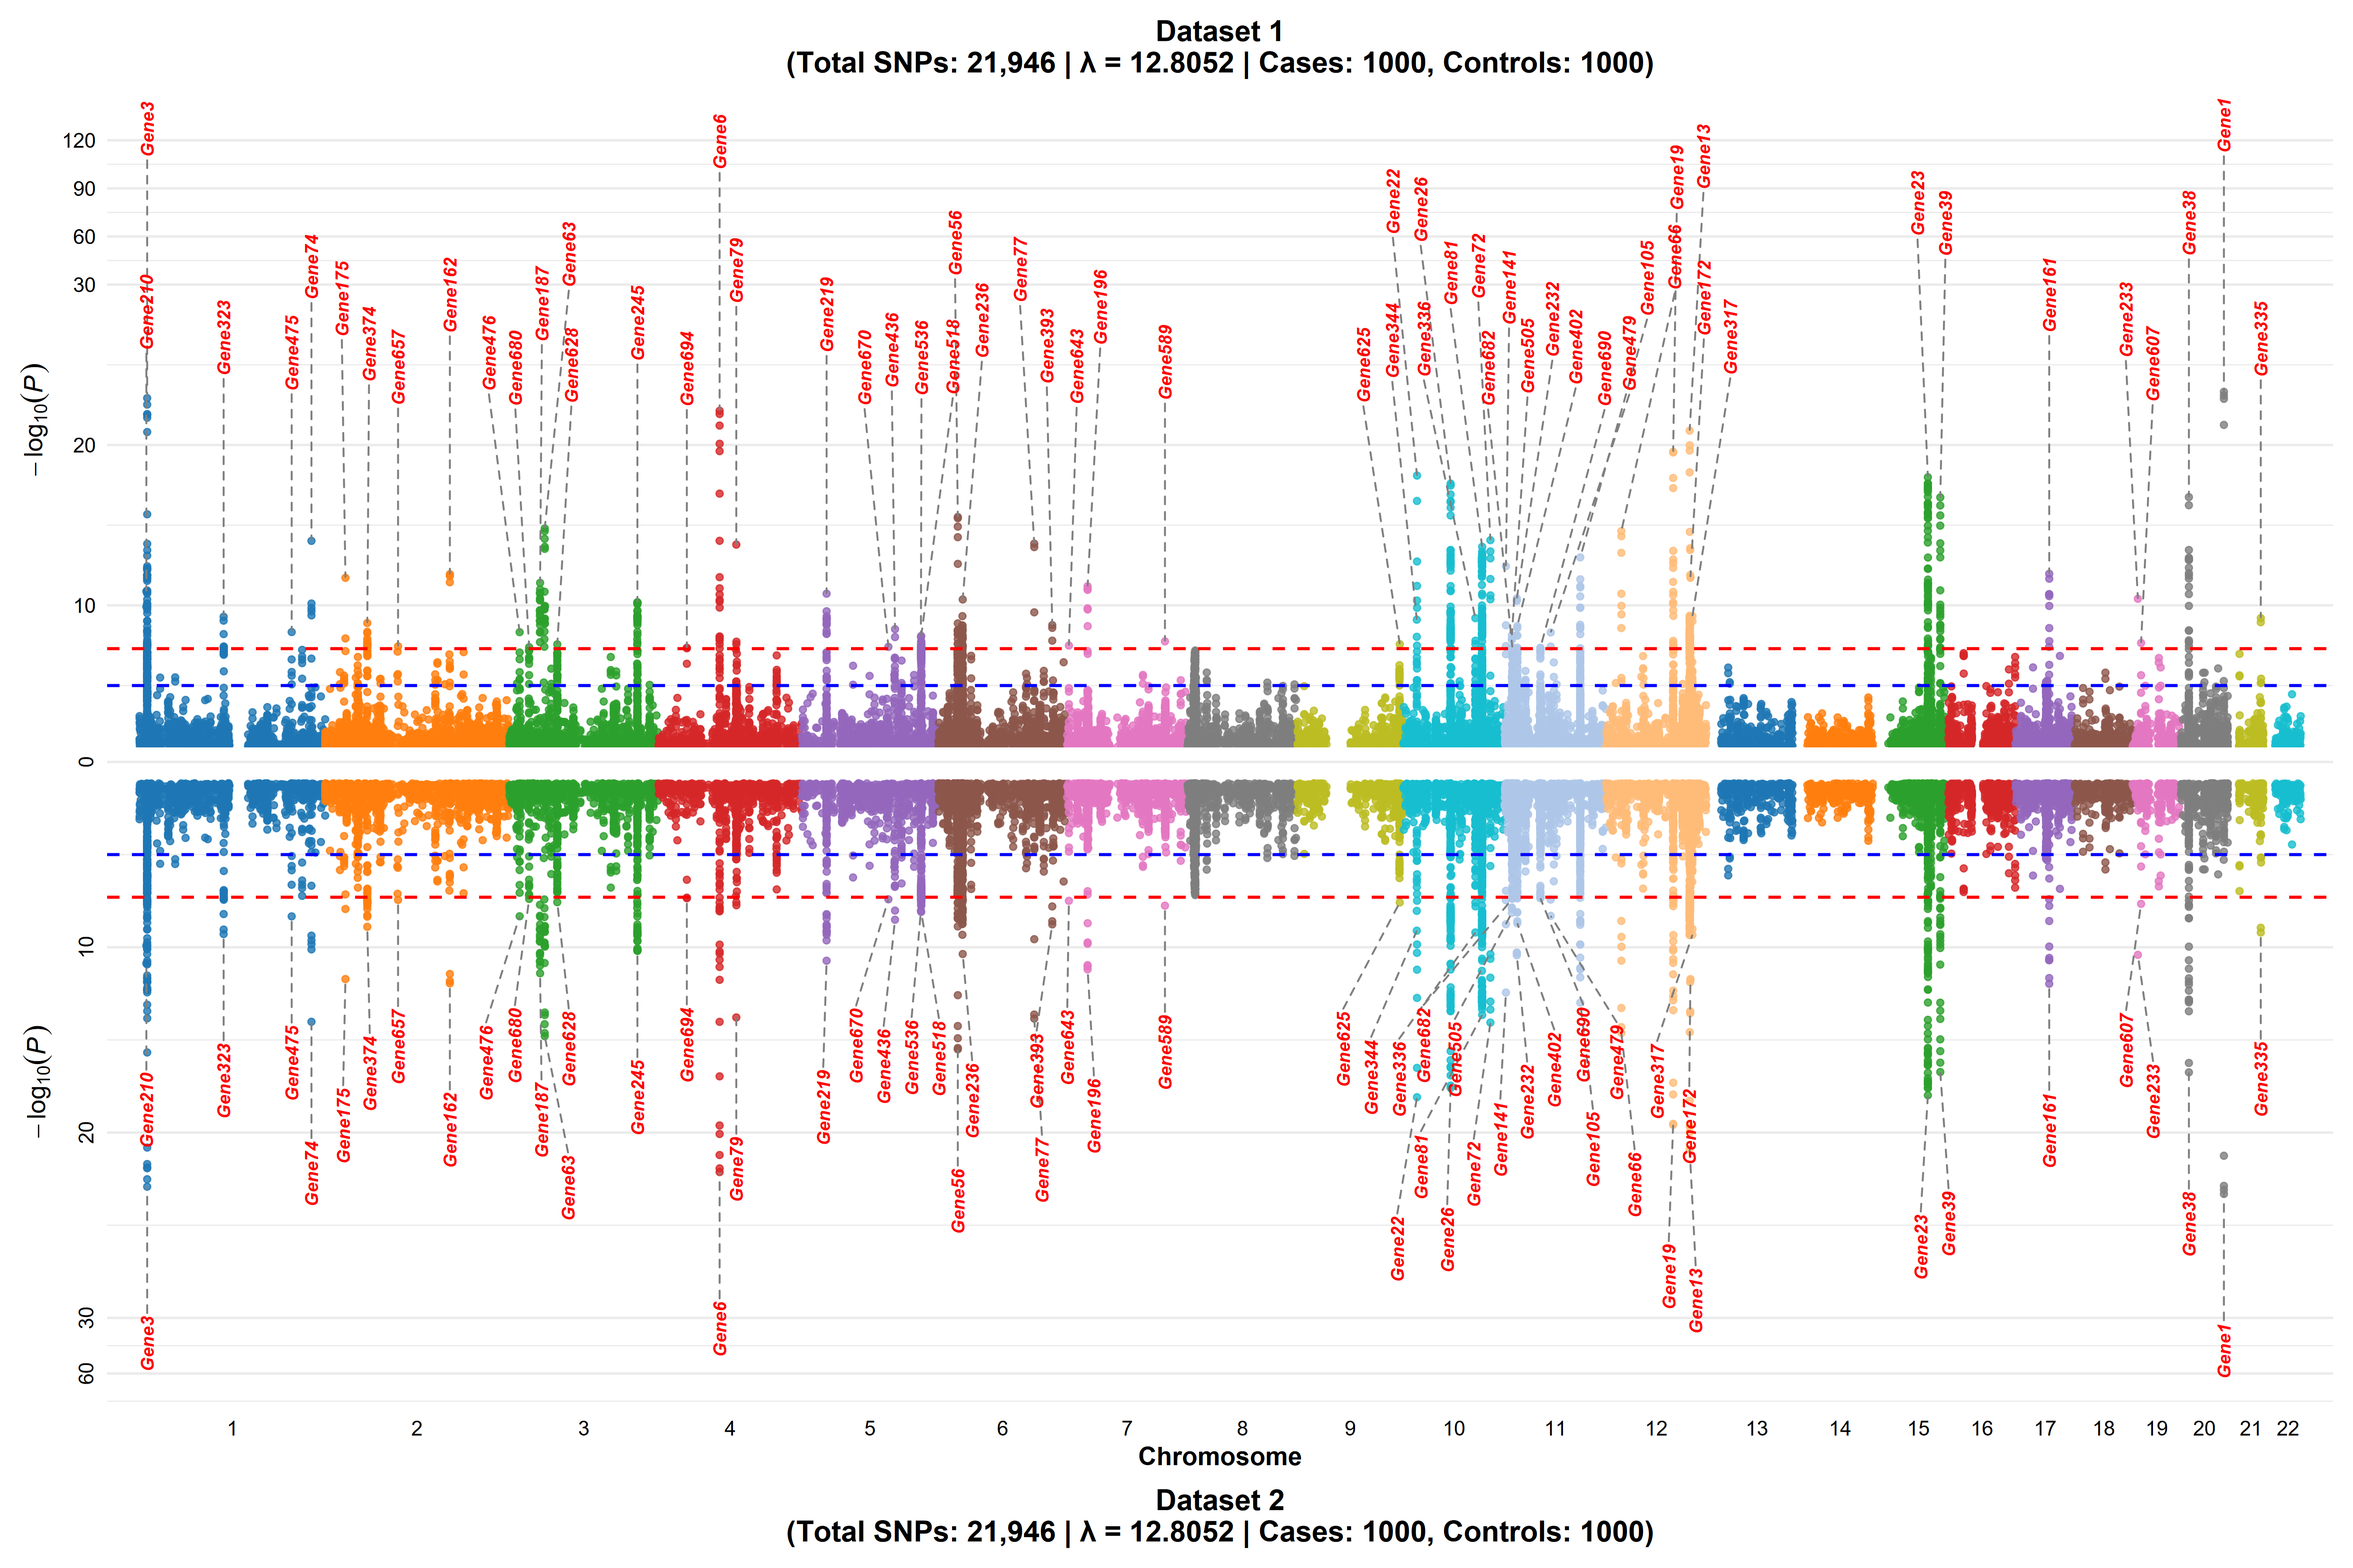
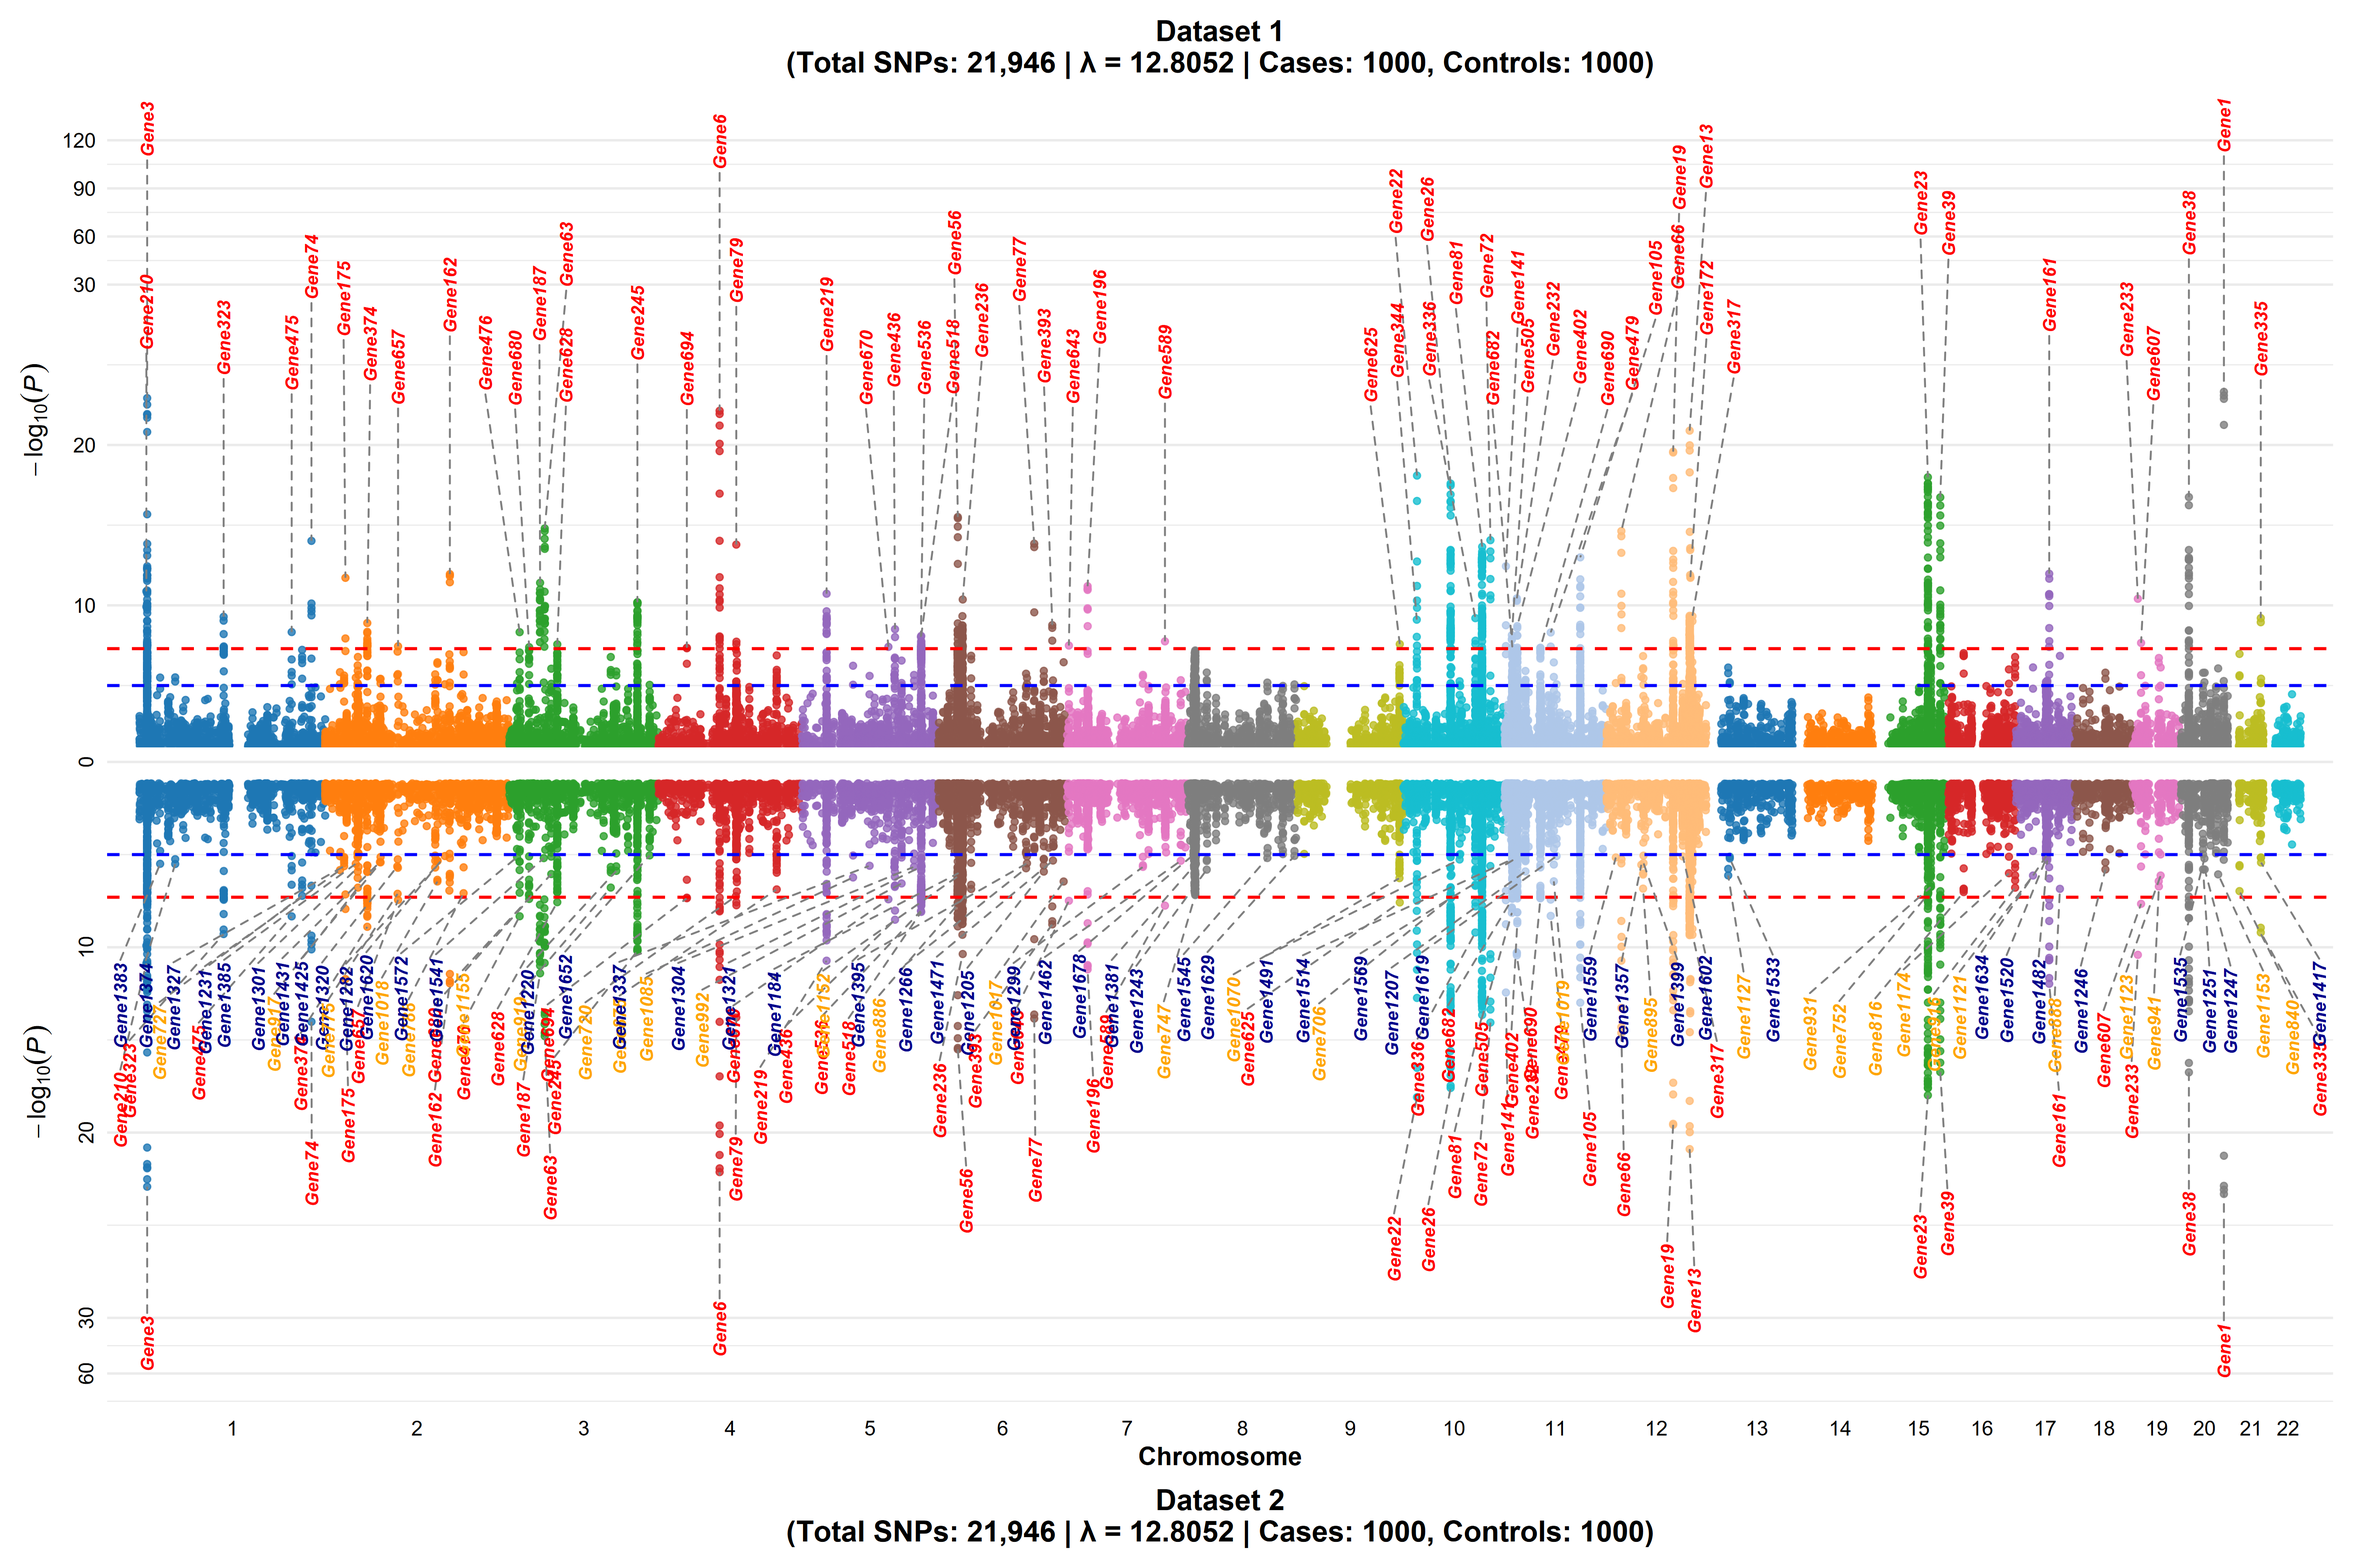
update

diff --git a/README.md b/README.md
@@ -3,11 +3,12 @@
 **manhattantwin** is an R package for generating publication-quality Manhattan plots and inverted Manhattan pair plots for GWAS data. It provides advanced features for SNP clustering, gene labeling, and customizable plot outputs.
 
 ## Features
+
 - Cluster SNPs by genomic distance and p-value
 - Generate single Manhattan plots with gene/group labeling
 - Create inverted Manhattan pair plots for comparative studies
 - Publication-ready PNG and PDF outputs
-
+- **Customizable gene label colors:** Use different colors for each gene threshold, making it easy to visually distinguish significance levels on your plots.
 
 ## Installation
 
@@ -20,7 +21,6 @@ install.packages("devtools")
 # Install manhattantwin from GitHub
 devtools::install_github("AlsammanAlsamman/manhattantwin")
 ```
-
 
 ## Example Usage
 
@@ -41,23 +41,26 @@ gwasdataseta <- manhattantwin::cluster_snps(
   distance_threshold = 250000
 )
 
-# Generate single Manhattan plot
-manhattantwin::plot_single_manhattan(
-  gwasdataseta,
-  plot_title_prefix = "Example Dataset A",
-  p_col = "pvalue",
-  n_cases = 1000,
-  n_controls = 1000,
-  file_name_prefix = "example_a",
-  group_col = "cluster",
-  gene_col = "gene",
-  output_folder = "single_plots"
-)
+ # Generate single Manhattan plot
+ manhattantwin::plot_single_manhattan(
+   gwasdataseta,
+   plot_title_prefix = "Example Dataset A",
+   p_col = "pvalue",
+   n_cases = 1000,
+   n_controls = 1000,
+   file_name_prefix = "example_a",
+   group_col = "cluster",
+   gene_col = "gene",
+   output_folder = "single_plots",
+   # You can customize label colors for different gene thresholds:
+   label_threshold_colors = c("red" = 5e-8, "orange" = 1e-6, "darkblue" = 1e-5)
+ )
 ```
 
 #### Example Output
 
 ![Single Manhattan Plot](single_plots/example_a_pub.png)
+
 
 ---
 
@@ -89,10 +92,15 @@ manhattantwin::manhattan_pair_plot(
   file_name_prefix = "example_a_vs_b",
   group_col = "cluster",
   gene_col = "gene",
-  output_folder = "pair_plots"
+  output_folder = "pair_plots",
+  label_threshold_colors = c("red" = 5e-8, "orange" = 1e-6, "darkblue" = 1e-5)
 )
 ```
+
 ![Inverted Manhattan Plots](Inverted_Manhattan_Plots/example_a_vs_b.png)
+
+*In the plot above, different colors are used for gene labels based on their significance thresholds (e.g., red for p < 5e-8, orange for p < 1e-6, dark blue for p < 1e-5).*
+
 ## Data
 
 The package includes an example GWAS dataset `gwasdataseta` for demonstration purposes.
